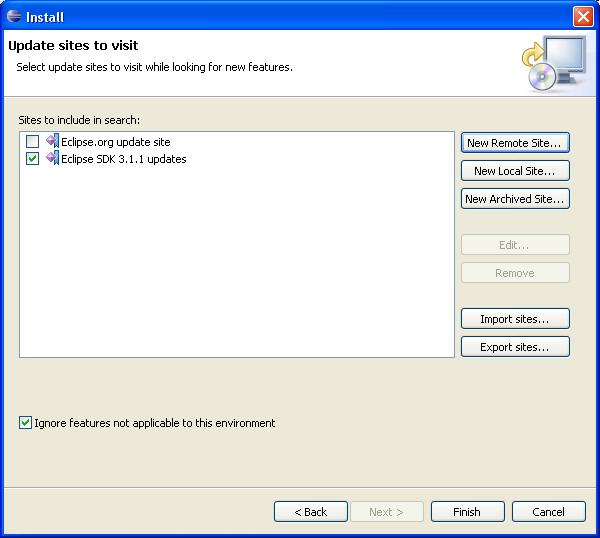
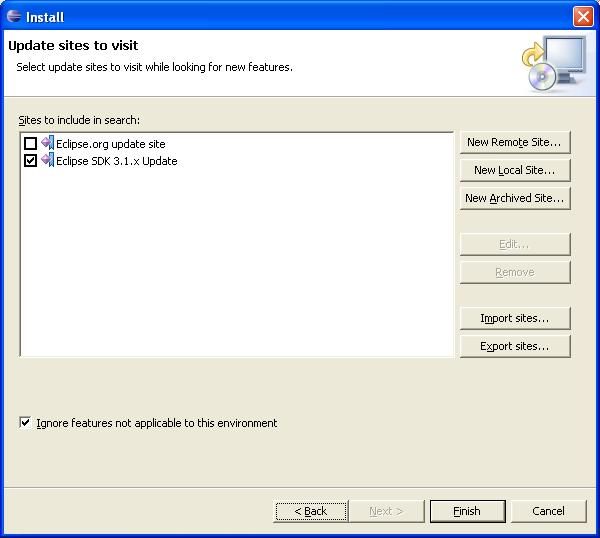
update 3.1.x update site documentation

diff --git a/platform-releng/updatesfor3.1.1.html b/platform-releng/updatesfor3.1.1.html
@@ -8,41 +8,39 @@
 
 <body>
 <p>
-<h3>Upgrading from 3.1 to 3.1.1 using update manager</h3>
+<h3>Upgrading from 3.1 to 3.1.x using update manager</h3>
 </p>
-<p>To upgrade  from 3.1 to 3.1.1 using update manager, you must manually specify
-a new update site.<a href="#footnote1"><sup>1</sup></a> These instructions describe
-how to update from 3.1 to 3.1.1 only. These instructions should <u>not</u> be
-used to upgrade from a 3.0.x
-build to 3.1 or 3.1.1. </p>
+<p>To upgrade from 3.1 to 3.1.x using update manager, you must manually specify 
+  a new update site.<a href="#footnote1"><sup>1</sup></a> These instructions describe 
+  how to update from 3.1 to 3.1.x or from 3.1.1 to 3.1.2 only. These instructions 
+  should <u>not</u> be used to upgrade from a 3.0.x build to 3.1 or 3.1.1. </p>
 <p>In Eclipse 3.1, select</p>
 <p><strong>Help</strong> --&gt; <strong>Software Updates</strong> --&gt; <strong>Find and Install</strong> --&gt; <strong>Search for New features to Install</strong> </p>
 <p><img src="images/featureupdates.JPG" width="576" height="515"> </p>
 <p>Select <strong>New Remote Site</strong>.</p>
 <p><img src="images/tovisit.JPG" width="576" height="516"></p>
-<p> In the <strong>New Update Site</strong> dialog, enter Name: <strong>Eclipse SDK 3.1.1 Updates</strong> and
-URL: <strong>http://update.eclipse.org/updates/3.1</strong></strong> </p>
-<strong></strong><img src="images/newsite.JPG" width="338" height="145"><br>
+<p> In the <strong>New Update Site</strong> dialog, enter Name: <strong>Eclipse 
+  SDK 3.1.x Updates</strong> and URL: <strong>http://update.eclipse.org/updates/3.1</strong></strong> 
+</p>
+<p><strong></strong><img src="images/newsite.JPG" width="356" height="154"></p>
+<p>&nbsp; </p>
 <p>Select <strong>OK</strong>.</p>
 <p><img src="images/check.JPG" width="600" height="538"></p>
-<p>Ensure that only <strong>Eclipse 3.1.1 SDK updates</strong> check box is selected and press
-  <strong>Finish</strong>.</p>
+<p>Ensure that only <strong>Eclipse 3.1.x SDK updates</strong> check box is selected 
+  and press <strong>Finish</strong>.</p>
 <p>&nbsp;</p>
-<p>A list of mirrors will appear that have the 3.1.1 updates. Select a mirror
-that is geographically suitable for you and select OK </p>
+<p>A list of mirrors will appear that have the 3.1.x updates. Select a mirror 
+  that is geographically suitable for you and select OK </p>
 <p><img src="images/mirrors.JPG" width="456" height="377"></p>
 <p>The update process should now proceed as usual.</p>
 <p>&nbsp;</p>
-<p><a name="footnote1"><sup>1</sup> The eclipse
-  update site is specified as http://update.eclipse.org/updates/3.0 in Eclipse
-  3.1 features. However, you cannot upgrade to
-  3.0 to 3.1 using  update manager because the startup.jar and eclipse executable
-  were upgraded from 3.0 to 3.1 and update manager does not currently support
-  upgrading these files. If we placed the 3.1.1 updates
-  in the
-  standard 3.x update site, this could
-  cause problems for 3.0 installations. Consquently, we have created a new update
-  site
-  for the 3.1.x maintenance streams http://update.eclipse.org/updates/3.1.</p>
+<p><a name="footnote1"><sup>1</sup> The eclipse update site is specified as http://update.eclipse.org/updates/3.0 
+  in Eclipse 3.1 features. However, you cannot upgrade to 3.0 to 3.1 using update 
+  manager because the startup.jar and eclipse executable were upgraded from 3.0 
+  to 3.1 and update manager does not currently support upgrading these files. 
+  If we placed the 3.1.x updates in the standard 3.x update site, this could cause 
+  problems for 3.0 installations. Consquently, we have created a new update site 
+  for the 3.1.x maintenance streams http://update.eclipse.org/updates/3.1. See 
+  https://bugs.eclipse.org/bugs/show_bug.cgi?id=123162 for further details.</p>
 </body>
 </html>
